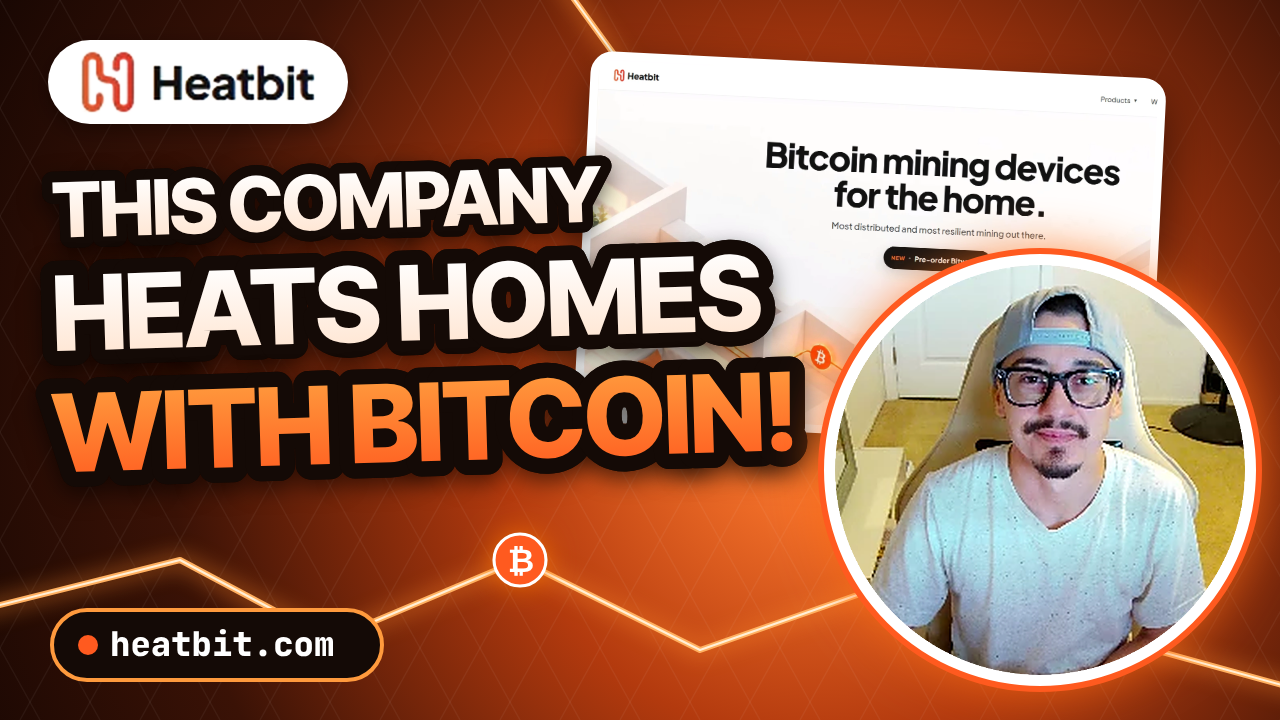
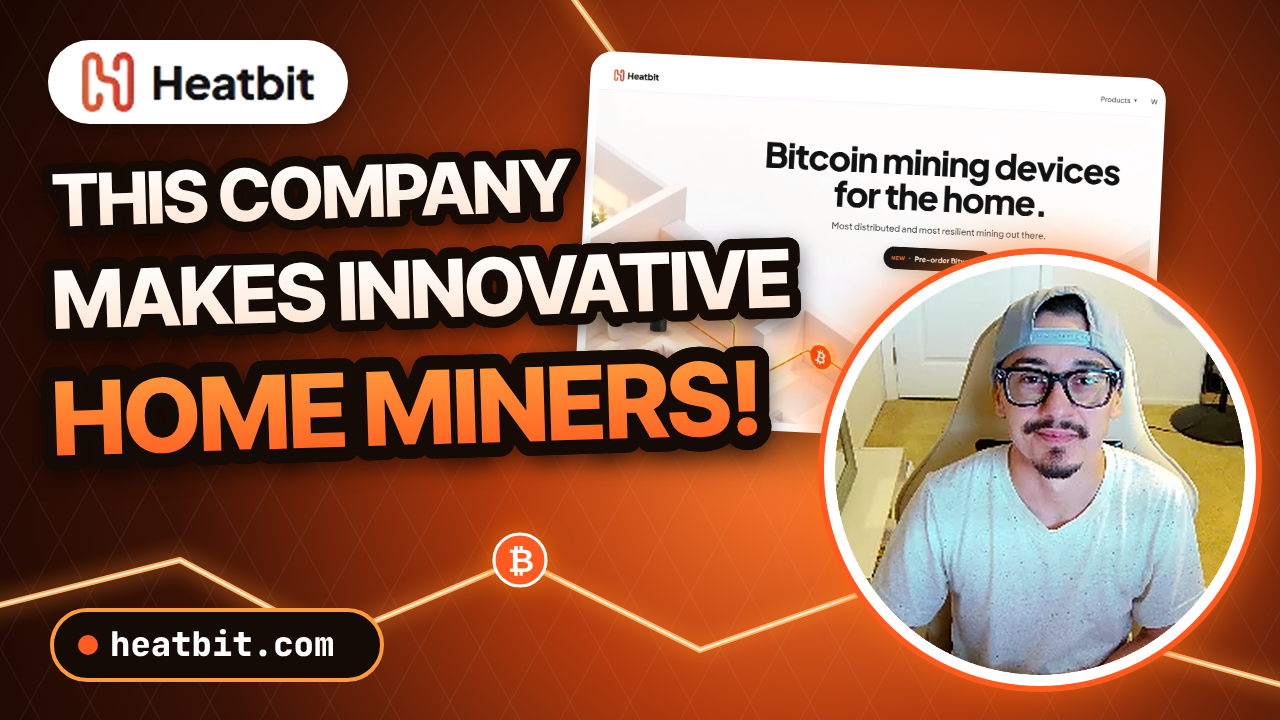
Heatbit thumbnail: THIS COMPANY MAKES INNOVATIVE HOME MINERS!
Claude-Session: https://claude.ai/code/session_01NSJvdmHsHoazKiuuGVQfMY

Changed region(s): [[0.0312, 0.1833, 0.6562, 0.7028]]

diff --git a/story/heatbit/thumb.html b/story/heatbit/thumb.html
@@ -38,9 +38,9 @@
   { const lw = 252, lh = lw * logo.height / logo.width; c.drawImage(logo, 72, 82 - lh / 2, lw, lh); }
 
   // ---- headline: about the company
-  word('THIS COMPANY', 52, 215, 76, ['#FFFFFF', '#FFE2CC']);
-  word('HEATS HOMES', 52, 320, 104, ['#FFFFFF', '#FFE2CC']);
-  word('WITH BITCOIN!', 52, 440, 108, [OR2, OR]);
+  word('THIS COMPANY', 52, 205, 72, ['#FFFFFF', '#FFE2CC']);
+  word('MAKES INNOVATIVE', 52, 305, 80, ['#FFFFFF', '#FFE2CC']);
+  word('HOME MINERS!', 52, 425, 102, [OR2, OR]);
 
   // ---- url chip
   c.save(); rr(52, 610, 330, 70, 35); c.fillStyle = INK; c.fill(); c.lineWidth = 4; c.strokeStyle = OR2; c.stroke(); c.beginPath(); c.arc(88, 645, 10, 0, TAU); c.fillStyle = OR; c.fill();
